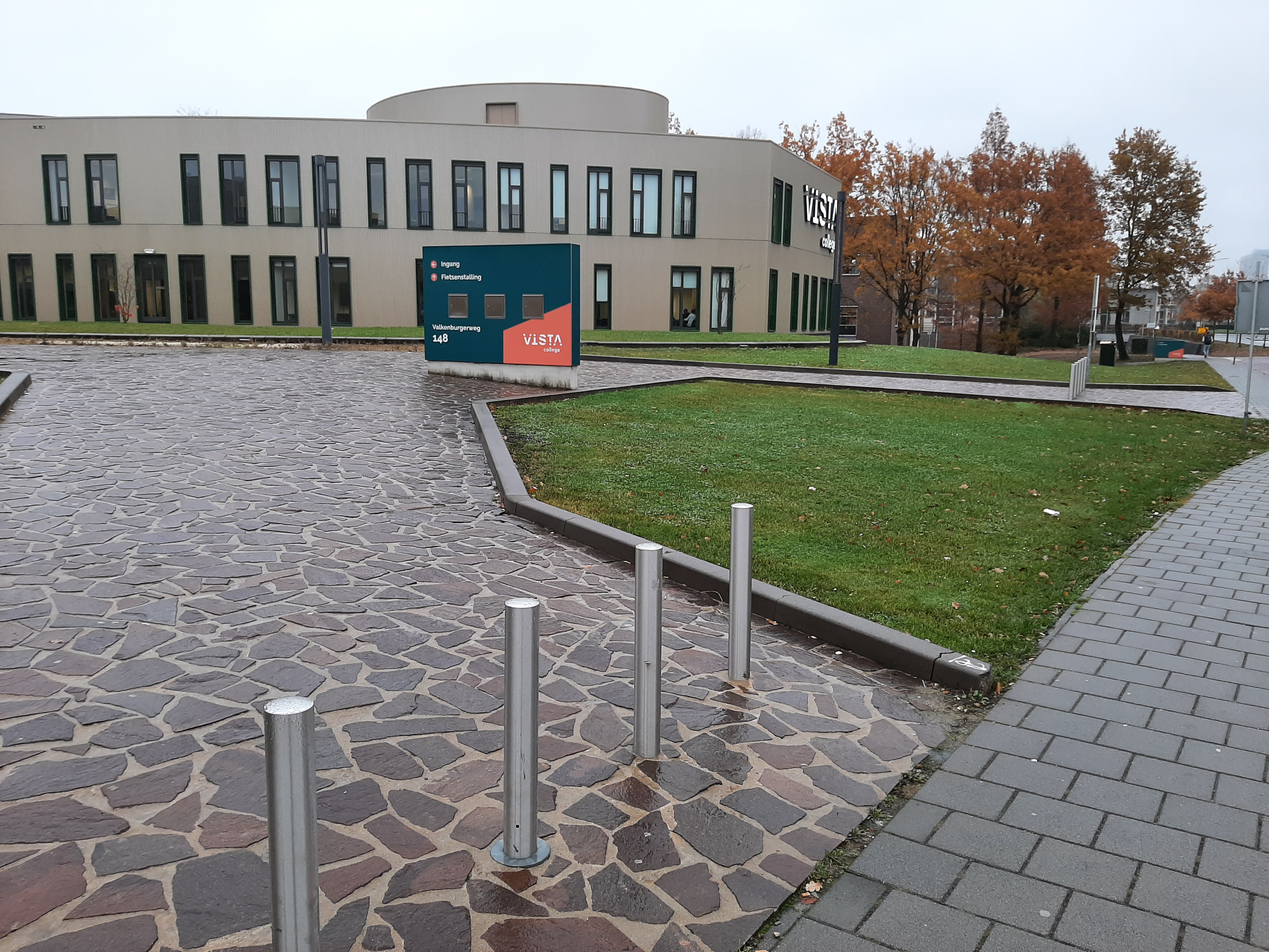
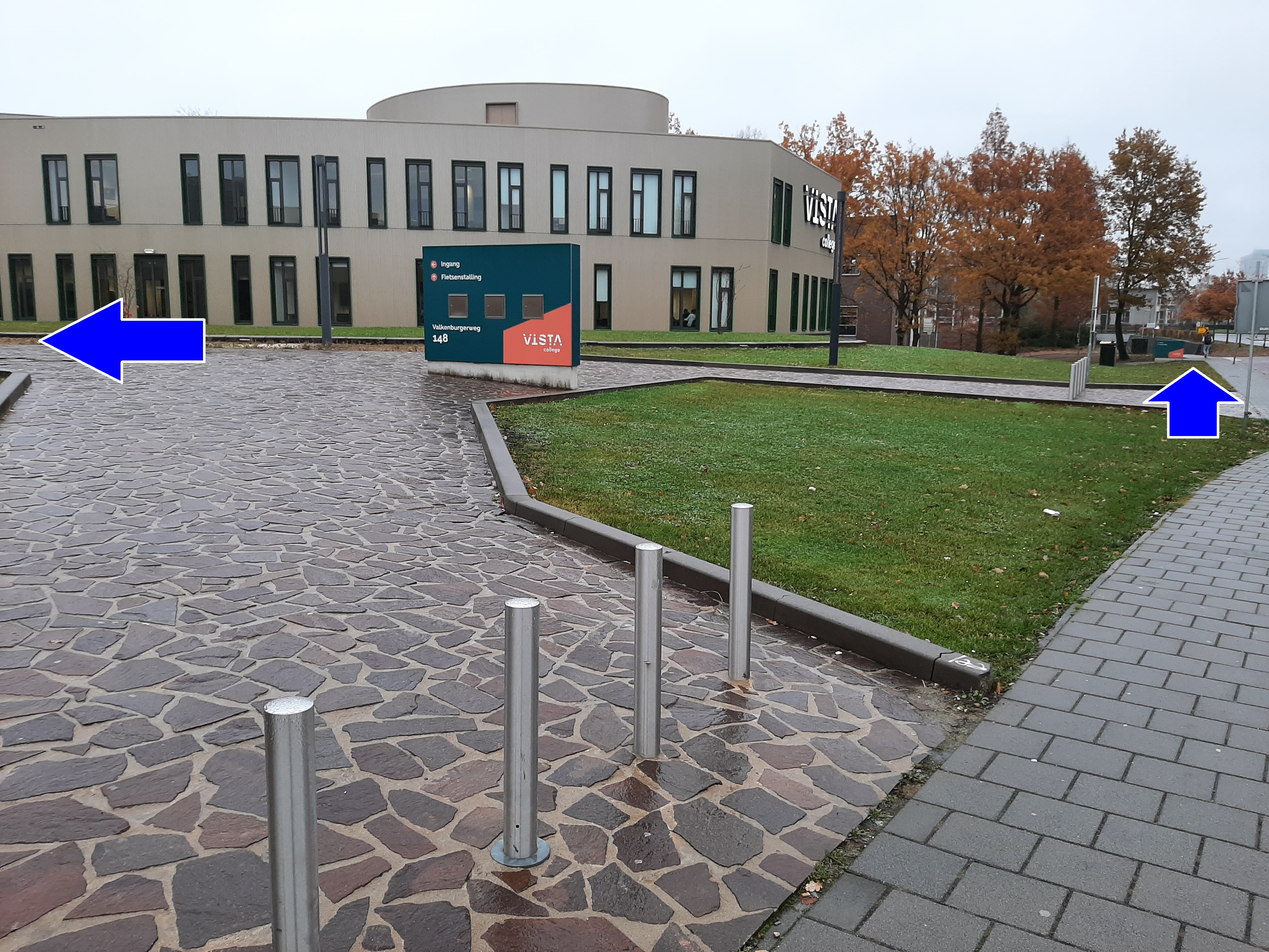
update escape room

Changed region(s): [[0.0312, 0.3108, 0.1875, 0.4041], [0.9062, 0.373, 0.9688, 0.4663]]

diff --git a/HTML/EscapeVista.html b/HTML/EscapeVista.html
@@ -2,24 +2,21 @@
 <html>
     <head>
         <title>Escape Vista</title>
-        <script src="../JS/EscapeVista.js"></script>
+        
         <link rel="stylesheet" href="../CSS/Stylesheet.css">
     </head>
     <body id="EscapeVistaBody">
         <div id="GridContainer">
-            <!--Image om te gebruiken in de image map-->
-            <img id="ImageHolder" src="../IMAGES/School/Hoofdweg.jpg" alt="Image Not Found" usemap="#ImageMap">
             <!--Imagemap waarin de image gebruikt wordt-->
             <map name="ImageMap" id="ImageMap">
                 <!--Click areas in de imagemap waarop geklikt kunnen worden-->
-                <area shape="circle" coords="170,110,50" alt="Test" href="#" onclick="HideTestImage()">
-                <area shape="rect" coords="170,110,350,400" alt="Test" href='InformatiePagina.html'>
+                <area shape="rect" coords="340,255,410,310" style="cursor: pointer;" alt="Test" onclick="TravelPath('Hoofdingang')">
+                <area shape="rect" coords="230,500,550,575" style="cursor: pointer;" alt="Test" onclick="TravelPath('Hoofdweg')">
             </map>
+            <!--Image om te gebruiken in de image map-->
+            <img id="ImageHolder" src="../IMAGES/School/Pad naar Hoofdingang.jpg" alt="Image Not Found" usemap="#ImageMap">
         </div>
-        <!--Test knoppen om de area's wel en niet klikbaar te maken-->
-        <button onclick="HideTestImage()">Hide Image</button>
-        <button onclick="ShowTestImage()">Show Image</button>
-        <button onclick="ShowImage1()">Test Image 1</button>
-        <button onclick="ShowImage2()">test image 2</button>
     </body>
 </html>
+<script src="../JS/EscapeVistaImageInfo.JS"></script>
+<script src="../JS/EscapeVista.js"></script>

diff --git a/JS/EscapeVistaImageInfo.JS b/JS/EscapeVistaImageInfo.JS
@@ -1,0 +1,39 @@
+var ImageDataList = [
+    {
+        ImageID: "Hoofdweg",
+        Coordinates1: "20,170,125,230",
+        Coordinates2: "670,215,735,260",
+        Coordinates3: null,
+        Destination1: "Pad naar Hoofdingang",
+        Destination2: "",
+        Destination3: null,
+        Task: null,
+    },
+    {
+        ImageID: "Pad naar Hoofdingang",
+        Coordinates1: "340,255,410,310",
+        Coordinates2: "230,500,550,575",
+        Coordinates3: null,
+        Destination1: "Hoofdingang",
+        Destination2: "Hoofdweg",
+        Destination3: null,
+        Task: null,
+    },
+    {
+        ImageID: "Hoofdingang",
+        Coordinates1: "390,220,455,290",
+        Coordinates2: "250,520,525,575",
+        Coordinates3: null,
+        Destination1: "",
+        Destination2: "Pad naar Hoofdingang",
+        Destination3: null,
+        Task: null,
+    },
+]
+var TaskList = [
+    {
+        TaskID: "Rekenen",
+        TaskQuestion: "",
+        TaskAnwser: "",
+    },
+]

diff --git a/CSS/Stylesheet.css b/CSS/Stylesheet.css
@@ -9,6 +9,8 @@
     background-repeat: no-repeat;
     background-attachment: fixed;
     background-size: 100% 100%;
+    margin: 0px;
+    padding: 0px;
 }
 #ImageMap{
     grid-area: ImageGrid;
@@ -21,11 +23,11 @@
 #GridContainer{
     display: grid; 
     grid-template-columns: 25% 50% 25%; 
-    grid-template-rows: 20vh 80vh; 
+    grid-template-rows: 15% 80%; 
     gap: 0px 0px; 
     grid-template-areas: 
     "TopGrid TopGrid TopGrid"
     "LeftGrid ImageGrid RightGrid"; 
-    height: 100%;
-    width: 100%;
+    height: 100vh;
+    width: 100vw;
 }

diff --git a/JS/EscapeVista.js b/JS/EscapeVista.js
@@ -17,3 +17,6 @@ function ShowImage1(){
 function ShowImage2(){
     document.getElementById("ImageHolder").src='../IMAGES/Test Image2.png'
 }
+function Travelpath(Destination){
+    
+}
